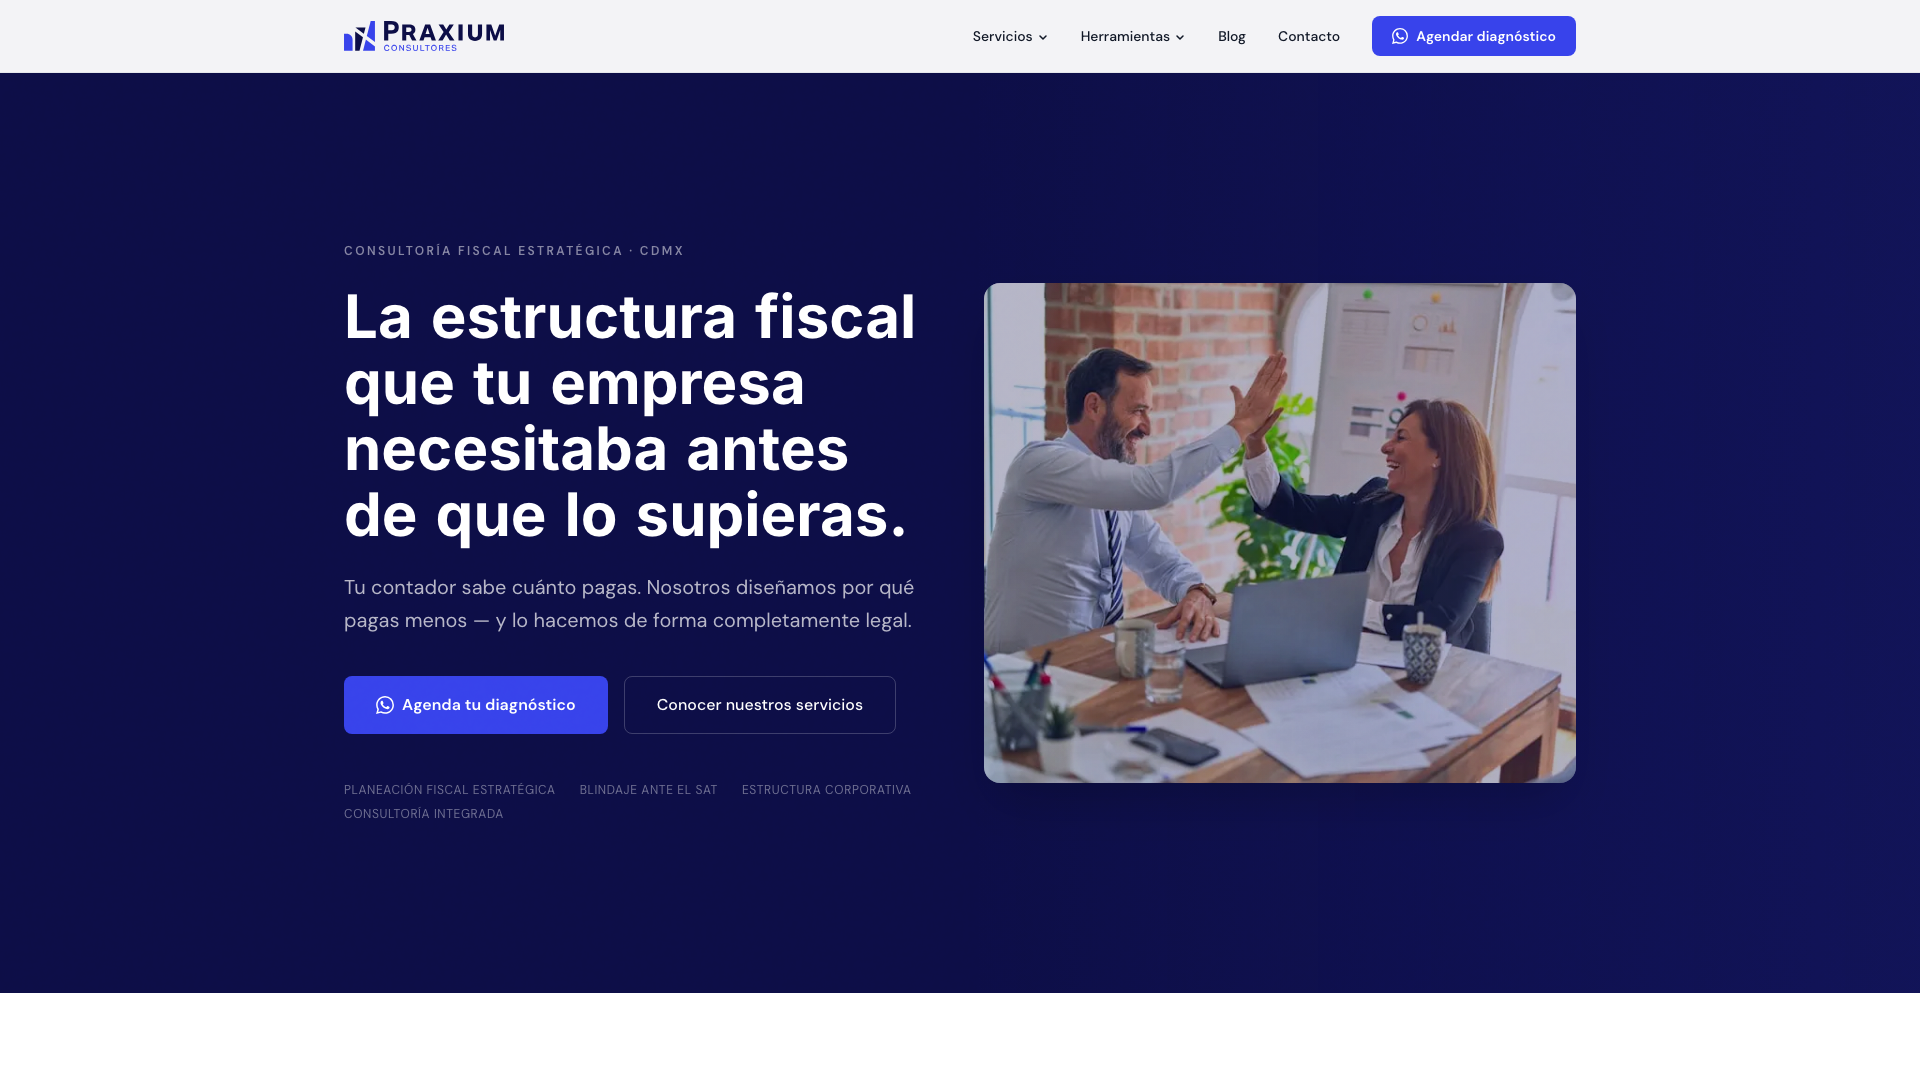
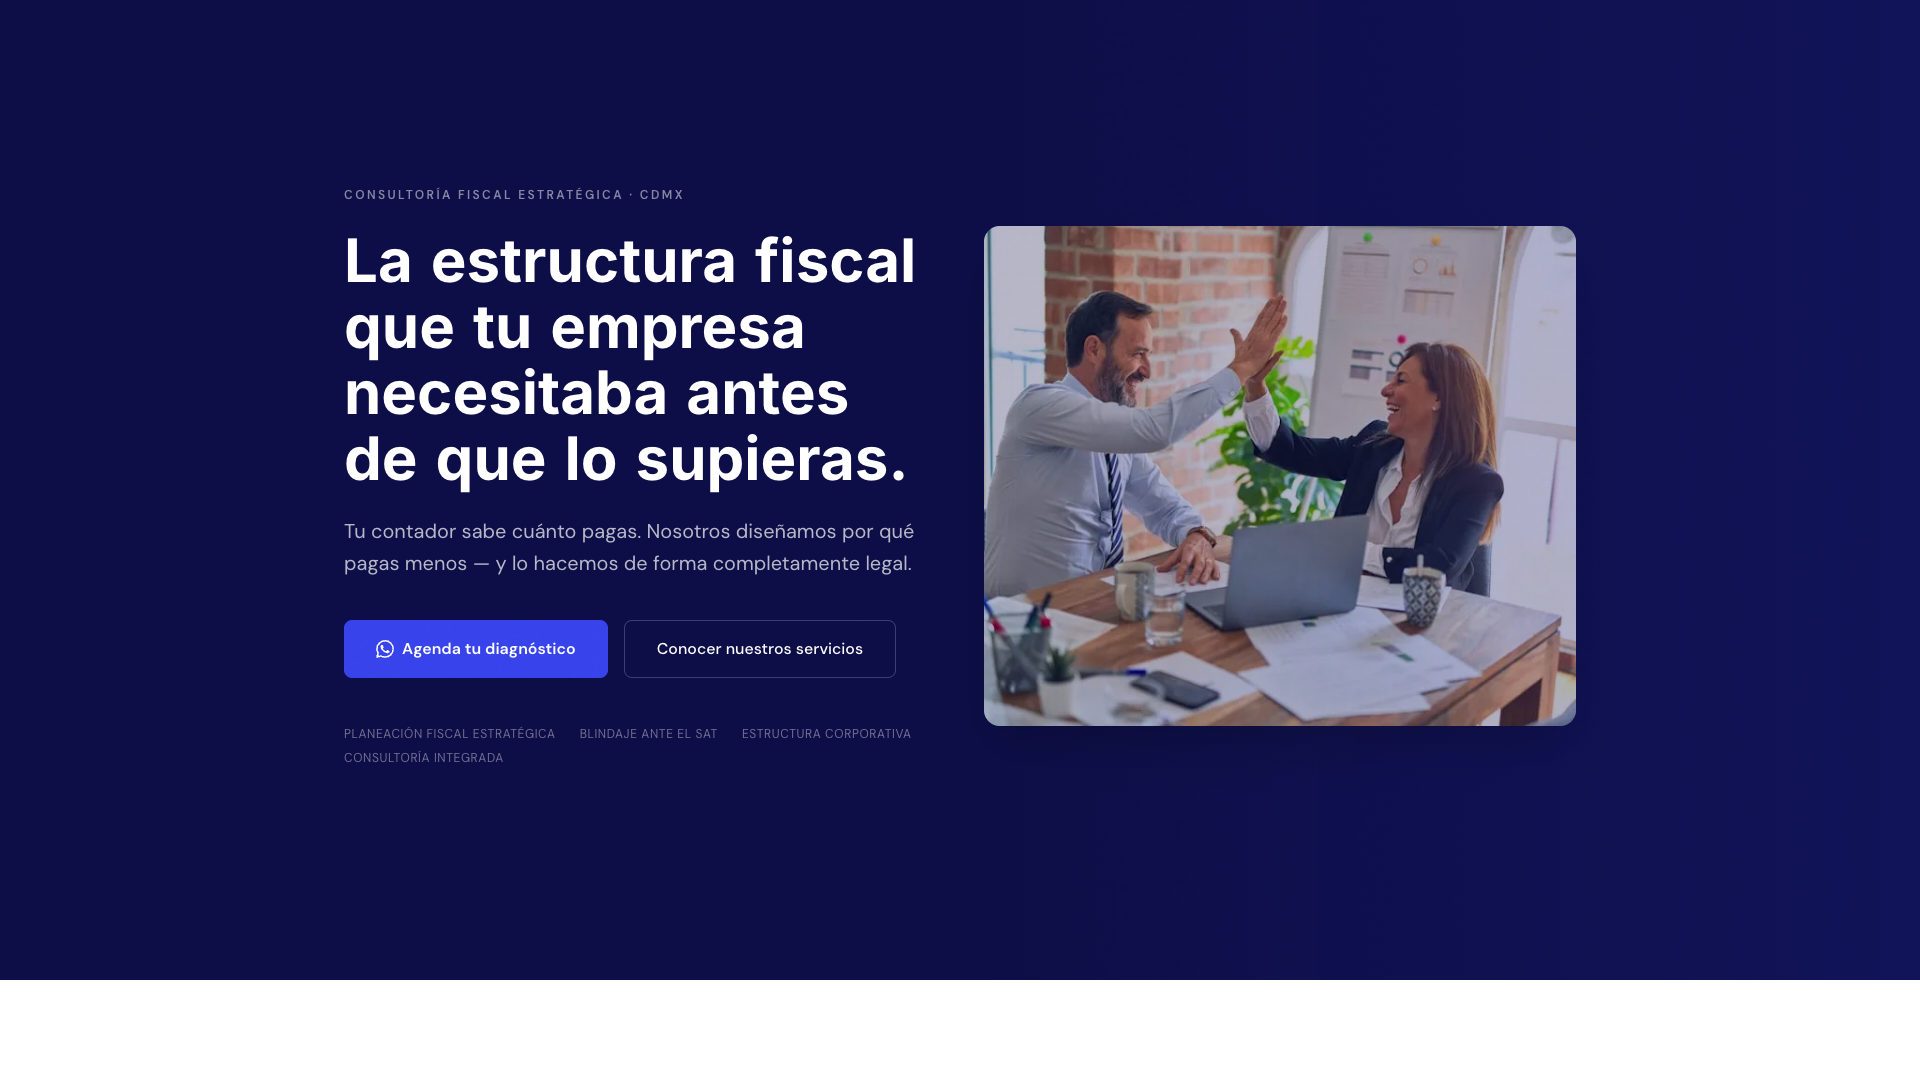
Reshoot 8 portfolio heroes without client navbars + drop mask gradient
User didn't like the linear-gradient mask fade on top of cards (Option B
half), so escalated to Option C: regenerate the screenshots themselves
so the client's own header never appears in the frame.

- New shoot.js with puppeteer-core (uses installed Chrome, no Chromium
  download). For each of the 8 URLs: load with networkidle2, wait 5s
  for animations, hide every fixed/sticky element anchored to the top
  (top<120px, height<200px) by setting display:none !important, scroll
  90-110px past where the nav was, then capture 1920x1080 viewport.
- All 8 screenshots regenerated. Verified Praxium, Nebugrama, AceleraRH,
  Rivenza, Coyotl Can, Poxahuac, CreandoAndo and FanMorita: hero copy
  is centered in the frame, no client navbar visible.

CSS:
- Drop the mask-image gradient on .portfolio__img (the visual fix the
  user rejected). Keep height: 108% on .parallax-img and parallax
  factor -25 in main.js — the captures no longer need the offset, but
  the softer parallax is itself nicer.
- object-position: center top now that the navbar is already gone from
  the source image (instead of the previous center 30% hack)

diff --git a/styles/main.css b/styles/main.css
@@ -793,8 +793,6 @@ body.loaded .hero__scroll { opacity: 1; animation: bounce 2s 1.8s infinite; }
 .portfolio__img {
   overflow: hidden;
   position: relative;
-  -webkit-mask-image: linear-gradient(to bottom, transparent 0%, #000 8%, #000 100%);
-          mask-image: linear-gradient(to bottom, transparent 0%, #000 8%, #000 100%);
 }
 
 .parallax-wrap { overflow: hidden; }
@@ -803,7 +801,7 @@ body.loaded .hero__scroll { opacity: 1; animation: bounce 2s 1.8s infinite; }
   width: 100%;
   height: 108%;
   object-fit: cover;
-  object-position: center 30%;
+  object-position: center top;
   will-change: transform;
   transition: transform 0.6s var(--ease-out);
 }
